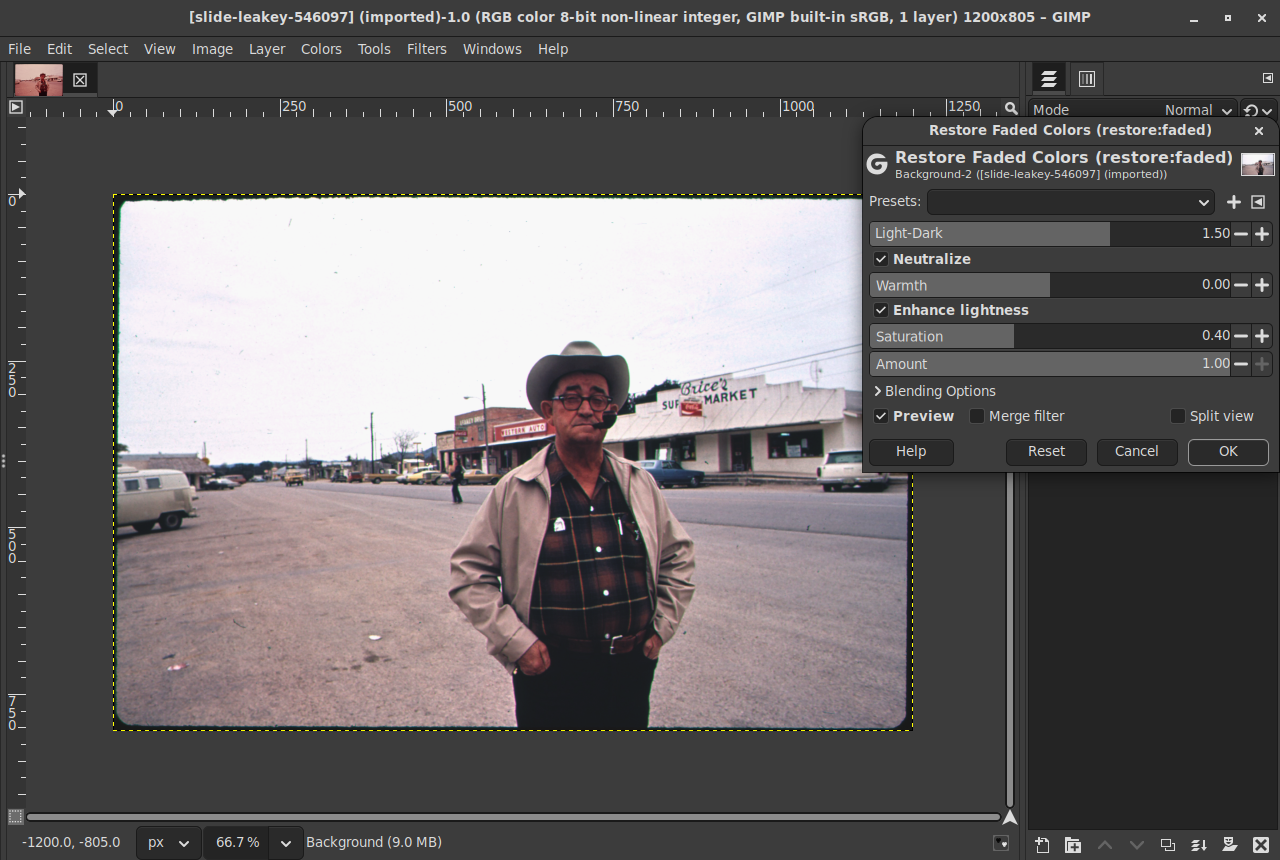
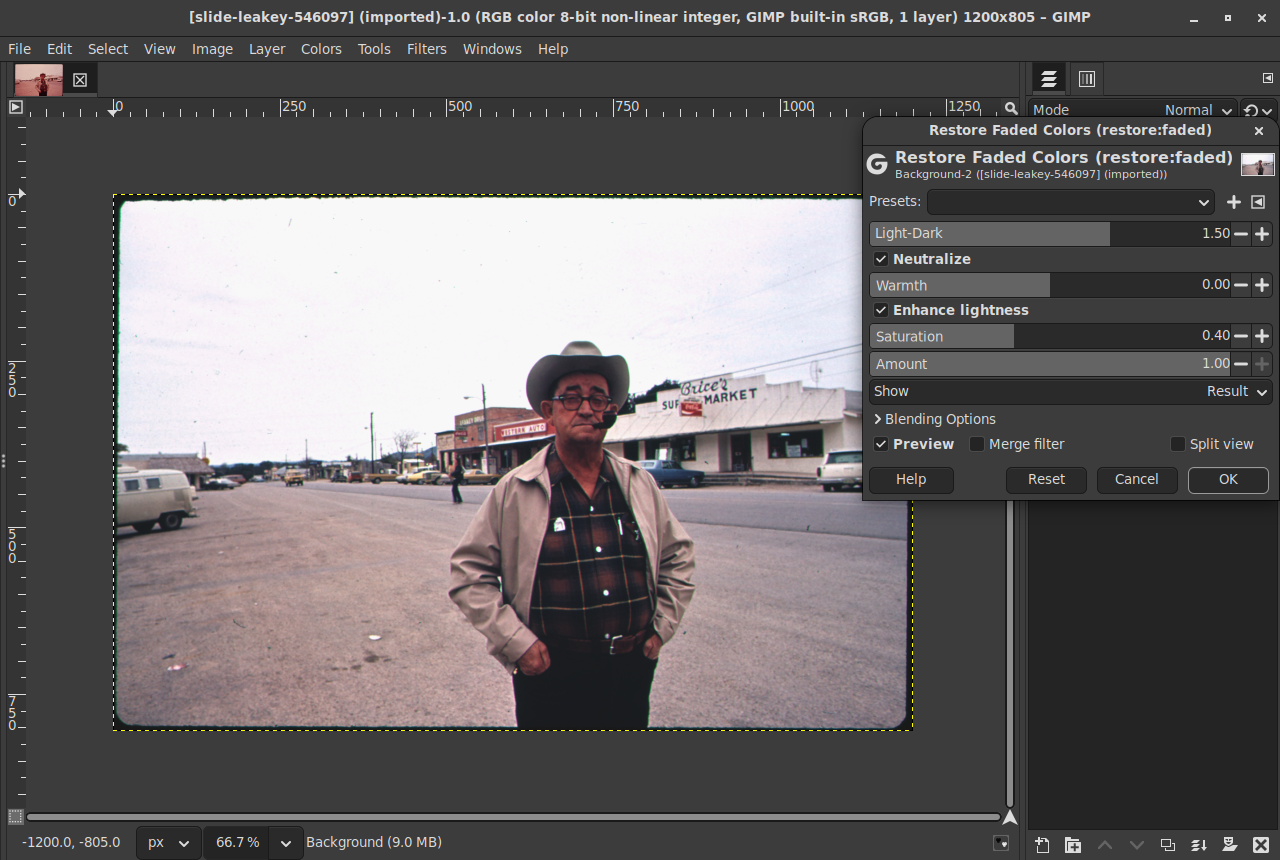
GUI test with the colour map run: all passed, screenshots

Changed region(s): [[0.6562, 0.4233, 1.0, 0.6047]]

diff --git a/PLAN.md b/PLAN.md
@@ -38,9 +38,8 @@ curve per channel.
 - tests/photos.sh: the synthetic fading of the photos against
   pyrestore4.py and three baselines; `--slides`: the real slides.
 - tests/gui/shots.sh: run 2026-11-18 (all passed: the menu place, the
-  dialog, the filter live in the saved XCF). The `map` session (Show:
-  Colour map) was added after it and is **not run** yet; its combo box
-  position is estimated (see the script).
+  dialog, the filter live in the saved XCF, and the `map` session:
+  Show set to Colour map, the plot drawn, docs/restore-faded-map.png).
 
 ## The operation
 
